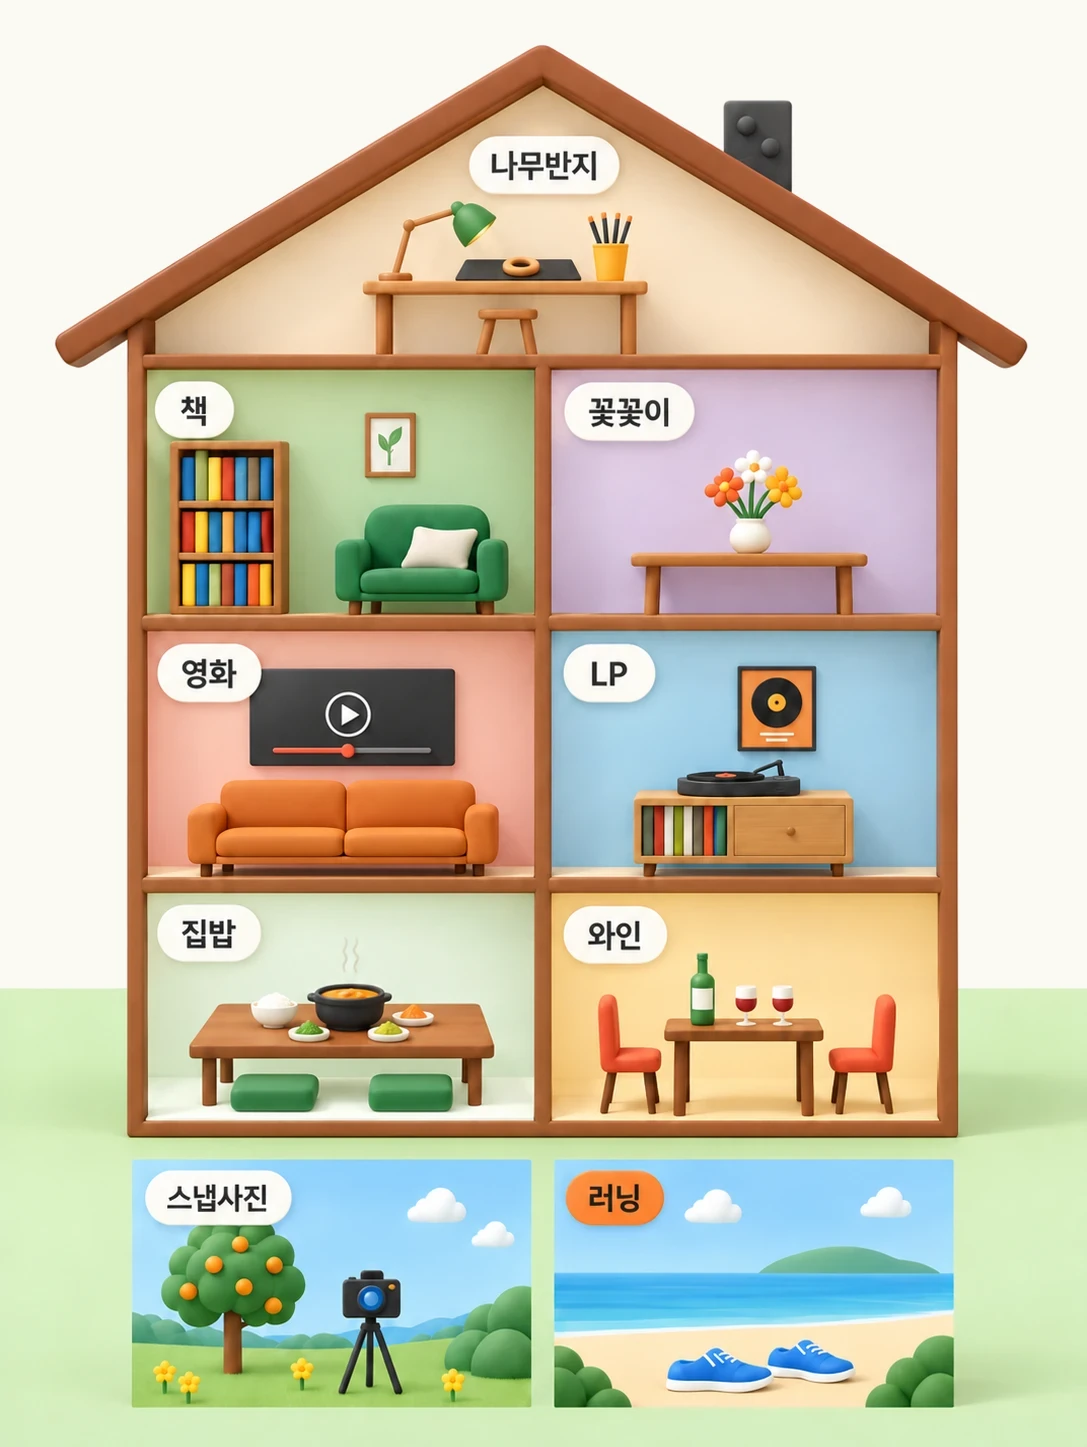
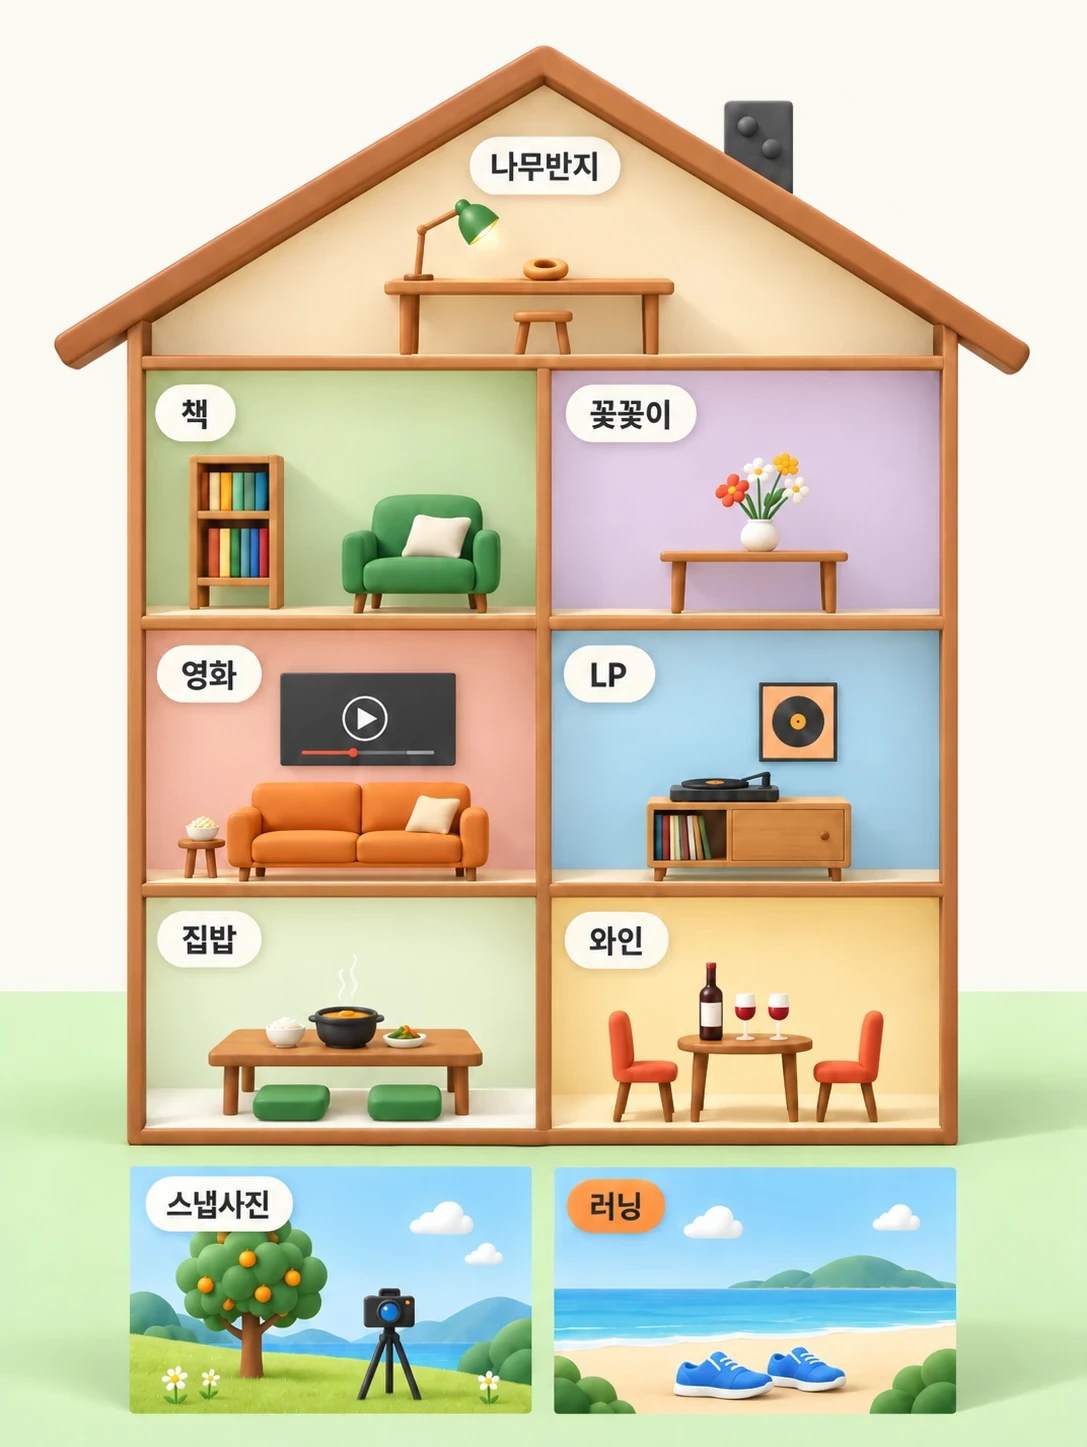
ROOM TOUR 집 그림 — 새 시안으로 교체, 방 · 이름표 자리 다시 맞춤, 그림 양옆 가장자리 부드럽게

Changed region(s): [[0.0911, 0.0311, 0.9411, 0.9952]]

diff --git a/src/styles/house.css b/src/styles/house.css
@@ -163,14 +163,19 @@
 
 /* ── 집 그림 (시안 한 장 그대로) ─────────────────────────────────────────
    그림 1087 × 1447 — --u 는 그림 1픽셀이 화면에서 차지하는 크기.
-   그림 위쪽 배경은 페이지 색, 땅(그림 y 989부터)은 그림 속 잔디색으로 화면 양옆까지 이어 붙입니다. */
+   그림 위쪽 배경은 페이지 색, 땅(그림 y 991부터)은 그림 속 잔디색으로 화면 양옆까지 이어 붙입니다. */
 .house3d {
   --w: min(660px, 100vw); --u: calc(var(--w) / 1087); --pt: 8px;
   padding: var(--pt) 0 clamp(48px, 8vh, 88px);
-  background: linear-gradient(to bottom, var(--bg) calc(var(--pt) + var(--u) * 989), #D5EEC0 0);
+  background: linear-gradient(to bottom, var(--bg) calc(var(--pt) + var(--u) * 991), #D7F3C3 0);
 }
 .house3d__frame { position: relative; width: var(--w); margin-inline: auto; }
-.house3d__img { display: block; width: 100%; height: auto; }
+/* 양옆 가장자리(빈 배경 · 잔디)만 아주 살짝 흐려 바깥 배경색과 이음매 없이 */
+.house3d__img {
+  display: block; width: 100%; height: auto;
+  -webkit-mask-image: linear-gradient(to right, transparent, #000 3.5%, #000 96.5%, transparent);
+  mask-image: linear-gradient(to right, transparent, #000 3.5%, #000 96.5%, transparent);
+}
 /* 방 — 투명 링크 (네모 테두리는 키보드로 고를 때만) */
 .house3d__room { position: absolute; display: block; outline: none; -webkit-tap-highlight-color: transparent; }
 .house3d__room::after { content: ""; position: absolute; inset: 0; pointer-events: none; box-shadow: inset 0 0 0 0 #F39A2B; transition: box-shadow var(--t-hover) var(--ease); }

diff --git a/src/pages/HousePage.tsx b/src/pages/HousePage.tsx
@@ -21,15 +21,15 @@ const VIEW_KEY = 'jejulog:house-view';
 const IMG_W = 1087;
 const IMG_H = 1447;
 const SPOTS: { id: ProgramId; room: [number, number, number, number]; tag: [number, number, number]; center?: boolean }[] = [
-  { id: 'craft', room: [147, 80, 942, 358], tag: [544, 132, 158], center: true },
-  { id: 'book', room: [147, 368, 535, 619], tag: [151, 377, 87] },
-  { id: 'flower', room: [549, 368, 942, 619], tag: [560, 378, 139] },
-  { id: 'cinema', room: [147, 630, 535, 880], tag: [153, 639, 113] },
-  { id: 'lp', room: [549, 630, 942, 880], tag: [559, 640, 101] },
-  { id: 'homemeal', room: [147, 892, 535, 1123], tag: [153, 900, 112] },
-  { id: 'wine', room: [549, 892, 942, 1123], tag: [560, 902, 111] },
-  { id: 'camping', room: [132, 1159, 531, 1407], tag: [141, 1166, 155] },
-  { id: 'running', room: [554, 1159, 953, 1407], tag: [562, 1167, 106] },
+  { id: 'craft', room: [145, 80, 944, 359], tag: [543, 133, 155], center: true },
+  { id: 'book', room: [145, 370, 536, 620], tag: [151, 380, 89] },
+  { id: 'flower', room: [550, 370, 944, 620], tag: [561, 380, 140] },
+  { id: 'cinema', room: [145, 630, 536, 886], tag: [153, 641, 113] },
+  { id: 'lp', room: [550, 630, 944, 886], tag: [559, 641, 101] },
+  { id: 'homemeal', room: [145, 896, 536, 1131], tag: [153, 907, 113] },
+  { id: 'wine', room: [550, 896, 944, 1131], tag: [563, 908, 109] },
+  { id: 'camping', room: [130, 1166, 531, 1413], tag: [141, 1172, 156] },
+  { id: 'running', room: [553, 1167, 956, 1413], tag: [561, 1172, 108] },
 ];
 const pct = (v: number, of: number) => `${(v / of) * 100}%`;
 
